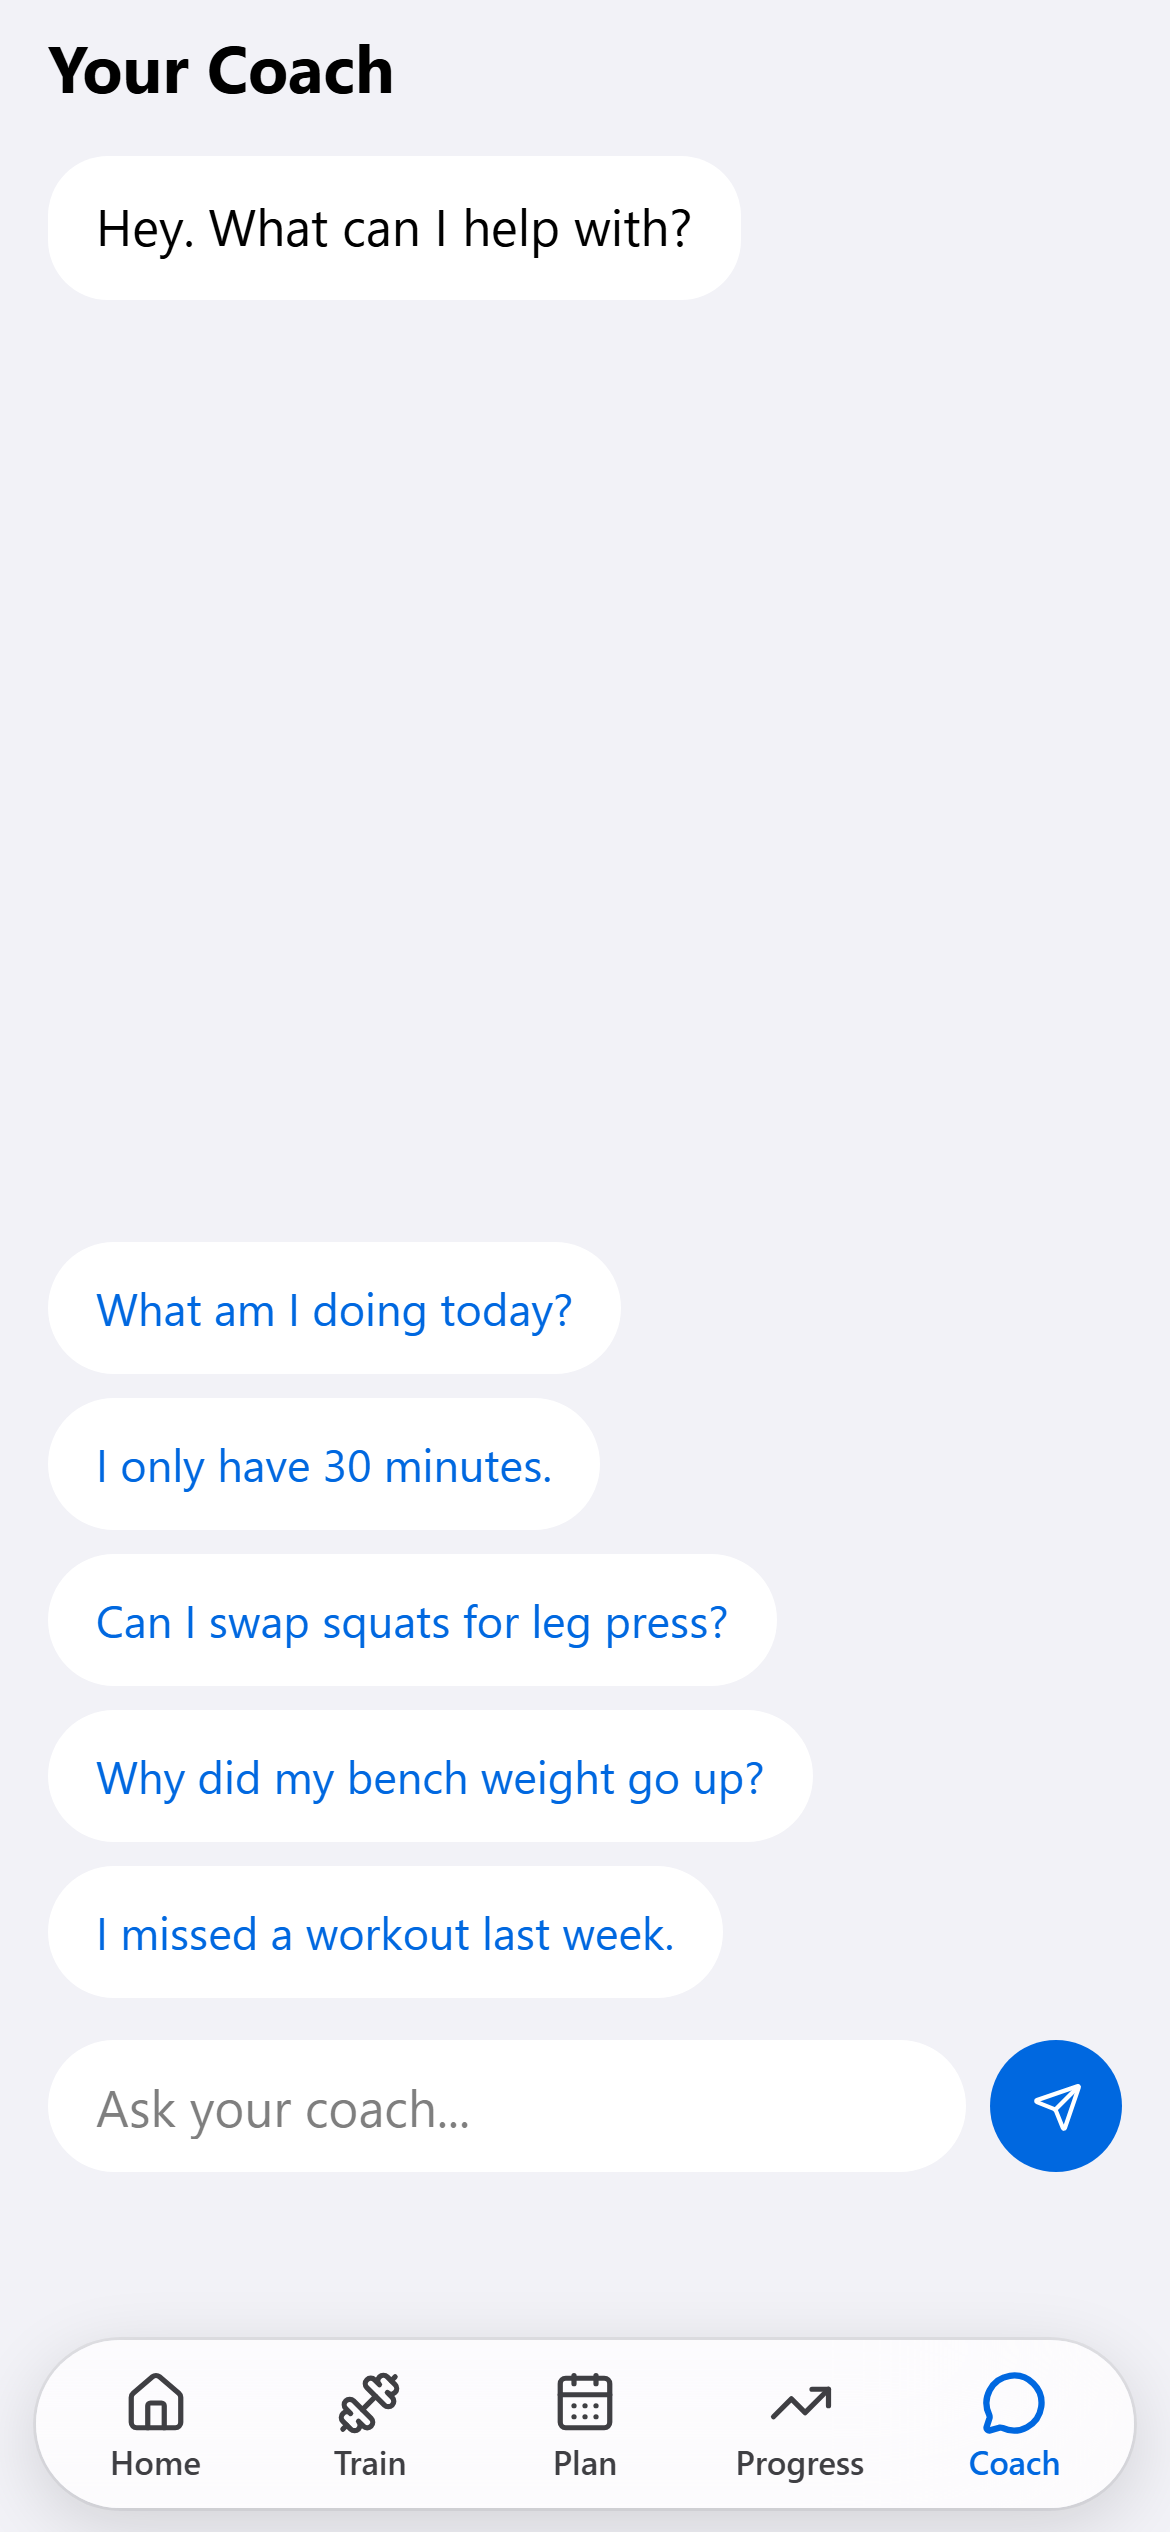
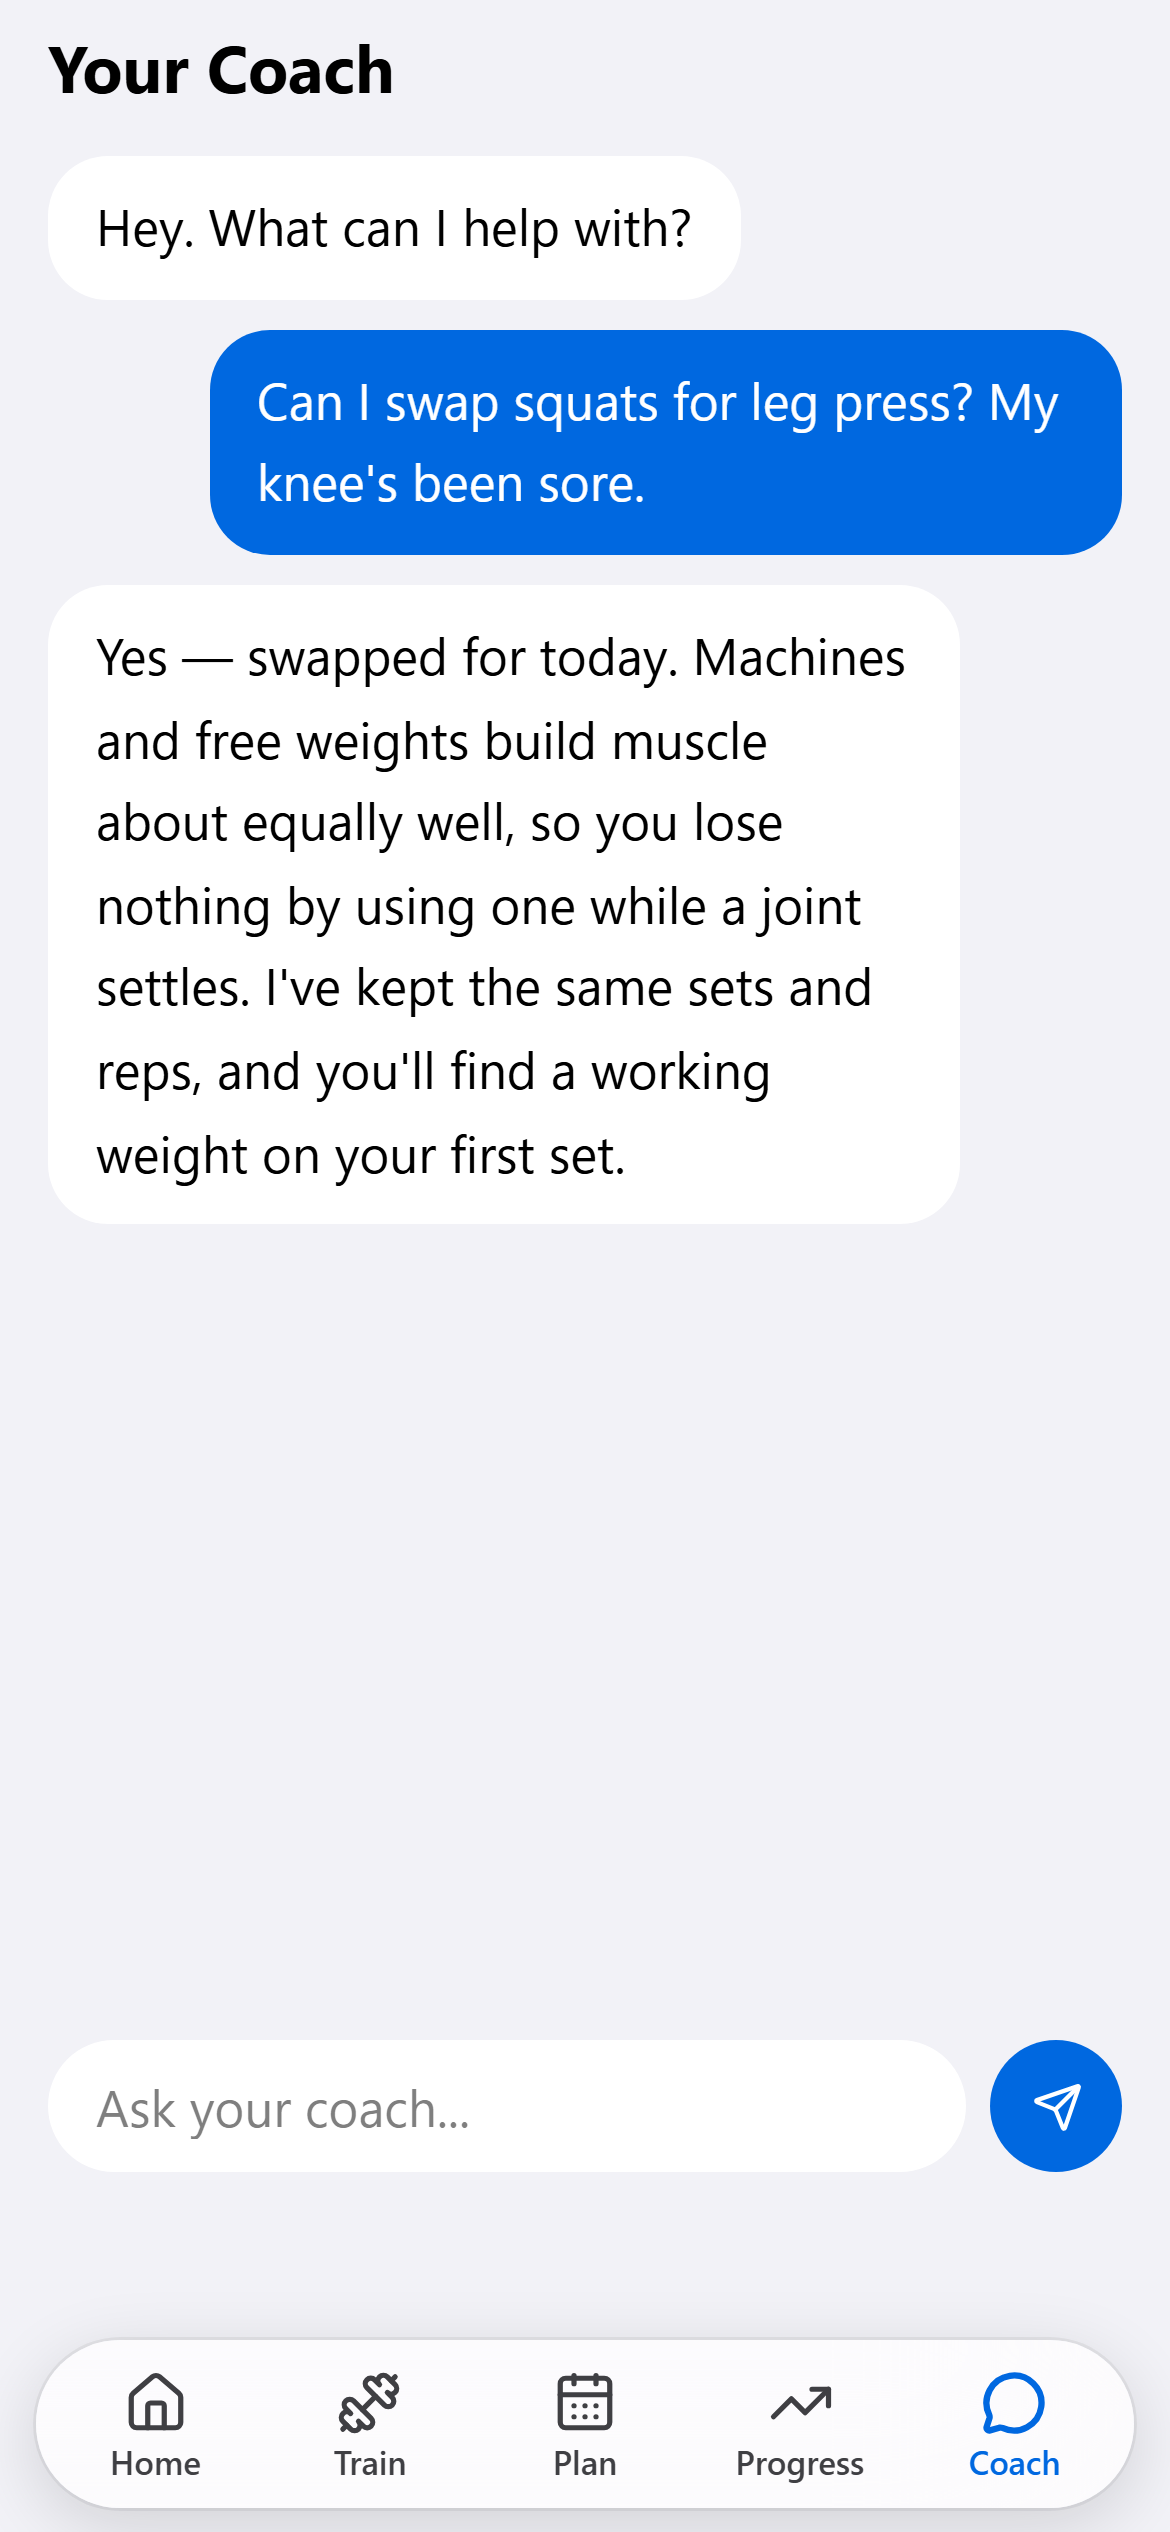
Give the coach screenshot a conversation to show
The landing page's alt text promised "the coach answering a question about
swapping an exercise" beside a picture of an empty chat. The screenshot
run now seeds a short exchange first — the app's own copy in its own UI,
not a testimonial and not a claim about anybody.

diff --git a/scripts/marketing-screens.ts b/scripts/marketing-screens.ts
@@ -87,6 +87,28 @@ async function main() {
   await page.goto(BASE);
   await settle(page);
 
+  /*
+   * The coach screen is a chat, and an empty chat photographs as a blank
+   * page. This is the app's own copy in its own UI — a plausible exchange,
+   * not a testimonial or a claim about anyone.
+   */
+  await page.evaluate(() => {
+    const key = "project-trainer-store";
+    const saved = JSON.parse(window.localStorage.getItem(key) ?? "{}");
+    saved.state = {
+      ...saved.state,
+      messages: [
+        { role: "assistant", text: "Hey. What can I help with?" },
+        { role: "user", text: "Can I swap squats for leg press? My knee's been sore." },
+        {
+          role: "assistant",
+          text: "Yes — swapped for today. Machines and free weights build muscle about equally well, so you lose nothing by using one while a joint settles. I've kept the same sets and reps, and you'll find a working weight on your first set.",
+        },
+      ],
+    };
+    window.localStorage.setItem(key, JSON.stringify(saved));
+  });
+
   for (const screen of ["home", "plan", "coach"]) {
     await page.goto(`${BASE}/${screen}`);
     await settle(page);
